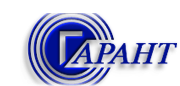
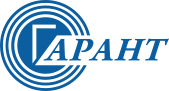
Гарант (Беларусь) (ab-internet-garant) (#906)
* Гарант (Беларусь) (ab-internet-garant):
- Более современная иконка.

* Гарант (Беларусь) (ab-internet-garant):
- Поддержка копеек.

diff --git a/providers/ab-internet-garant/main.js b/providers/ab-internet-garant/main.js
@@ -11,6 +11,16 @@ var g_headers = {
 	'User-Agent': 'Mozilla/5.0 (Windows NT 6.1) AppleWebKit/537.36 (KHTML, like Gecko) Chrome/29.0.1547.76 Safari/537.36',
 };
 
+function parseBalanceRK(_text) {
+	var text = _text.replace(/\s+/g, '');
+	var rub = getParam(text, null, null, /(-?\d[\d\.,]*)р\./i, replaceTagsAndSpaces, parseBalance) || 0;
+	var _sign = rub < 0 ? -1 : 1;
+	var kop = getParam(text, null, null, /(-?\d[\d\.,]*)к\./i, replaceTagsAndSpaces, parseBalance) || 0;
+	var val = _sign*(Math.abs(rub) + kop / 100);
+	AnyBalance.trace('Parsing balance (' + val + ') from: ' + _text);
+	return val;
+}
+
 function main() {
 	var prefs = AnyBalance.getPreferences();
 	var baseurl = 'https://garant-tv.by/';
@@ -68,7 +78,7 @@ function main() {
 	};
 
 	getParam(html, result, 'balance', /Остаток на счету(?:[^>]*>){6}[^>]*value="([^"]*)/i, replaceTagsAndSpaces,
-		parseBalance);
+		parseBalanceRK);
 	getParam(html, result, 'acc_num', /Лицевой счет(?:[^>]*>){6}[^>]*value="([^"]*)/i, replaceTagsAndSpaces,
 		html_entity_decode);
 	getParam(html, result, 'fio', /Ф\.И\.О\.(?:[^>]*>){4}[^>]*value="([^"]*)/i, replaceTagsAndSpaces, html_entity_decode);
